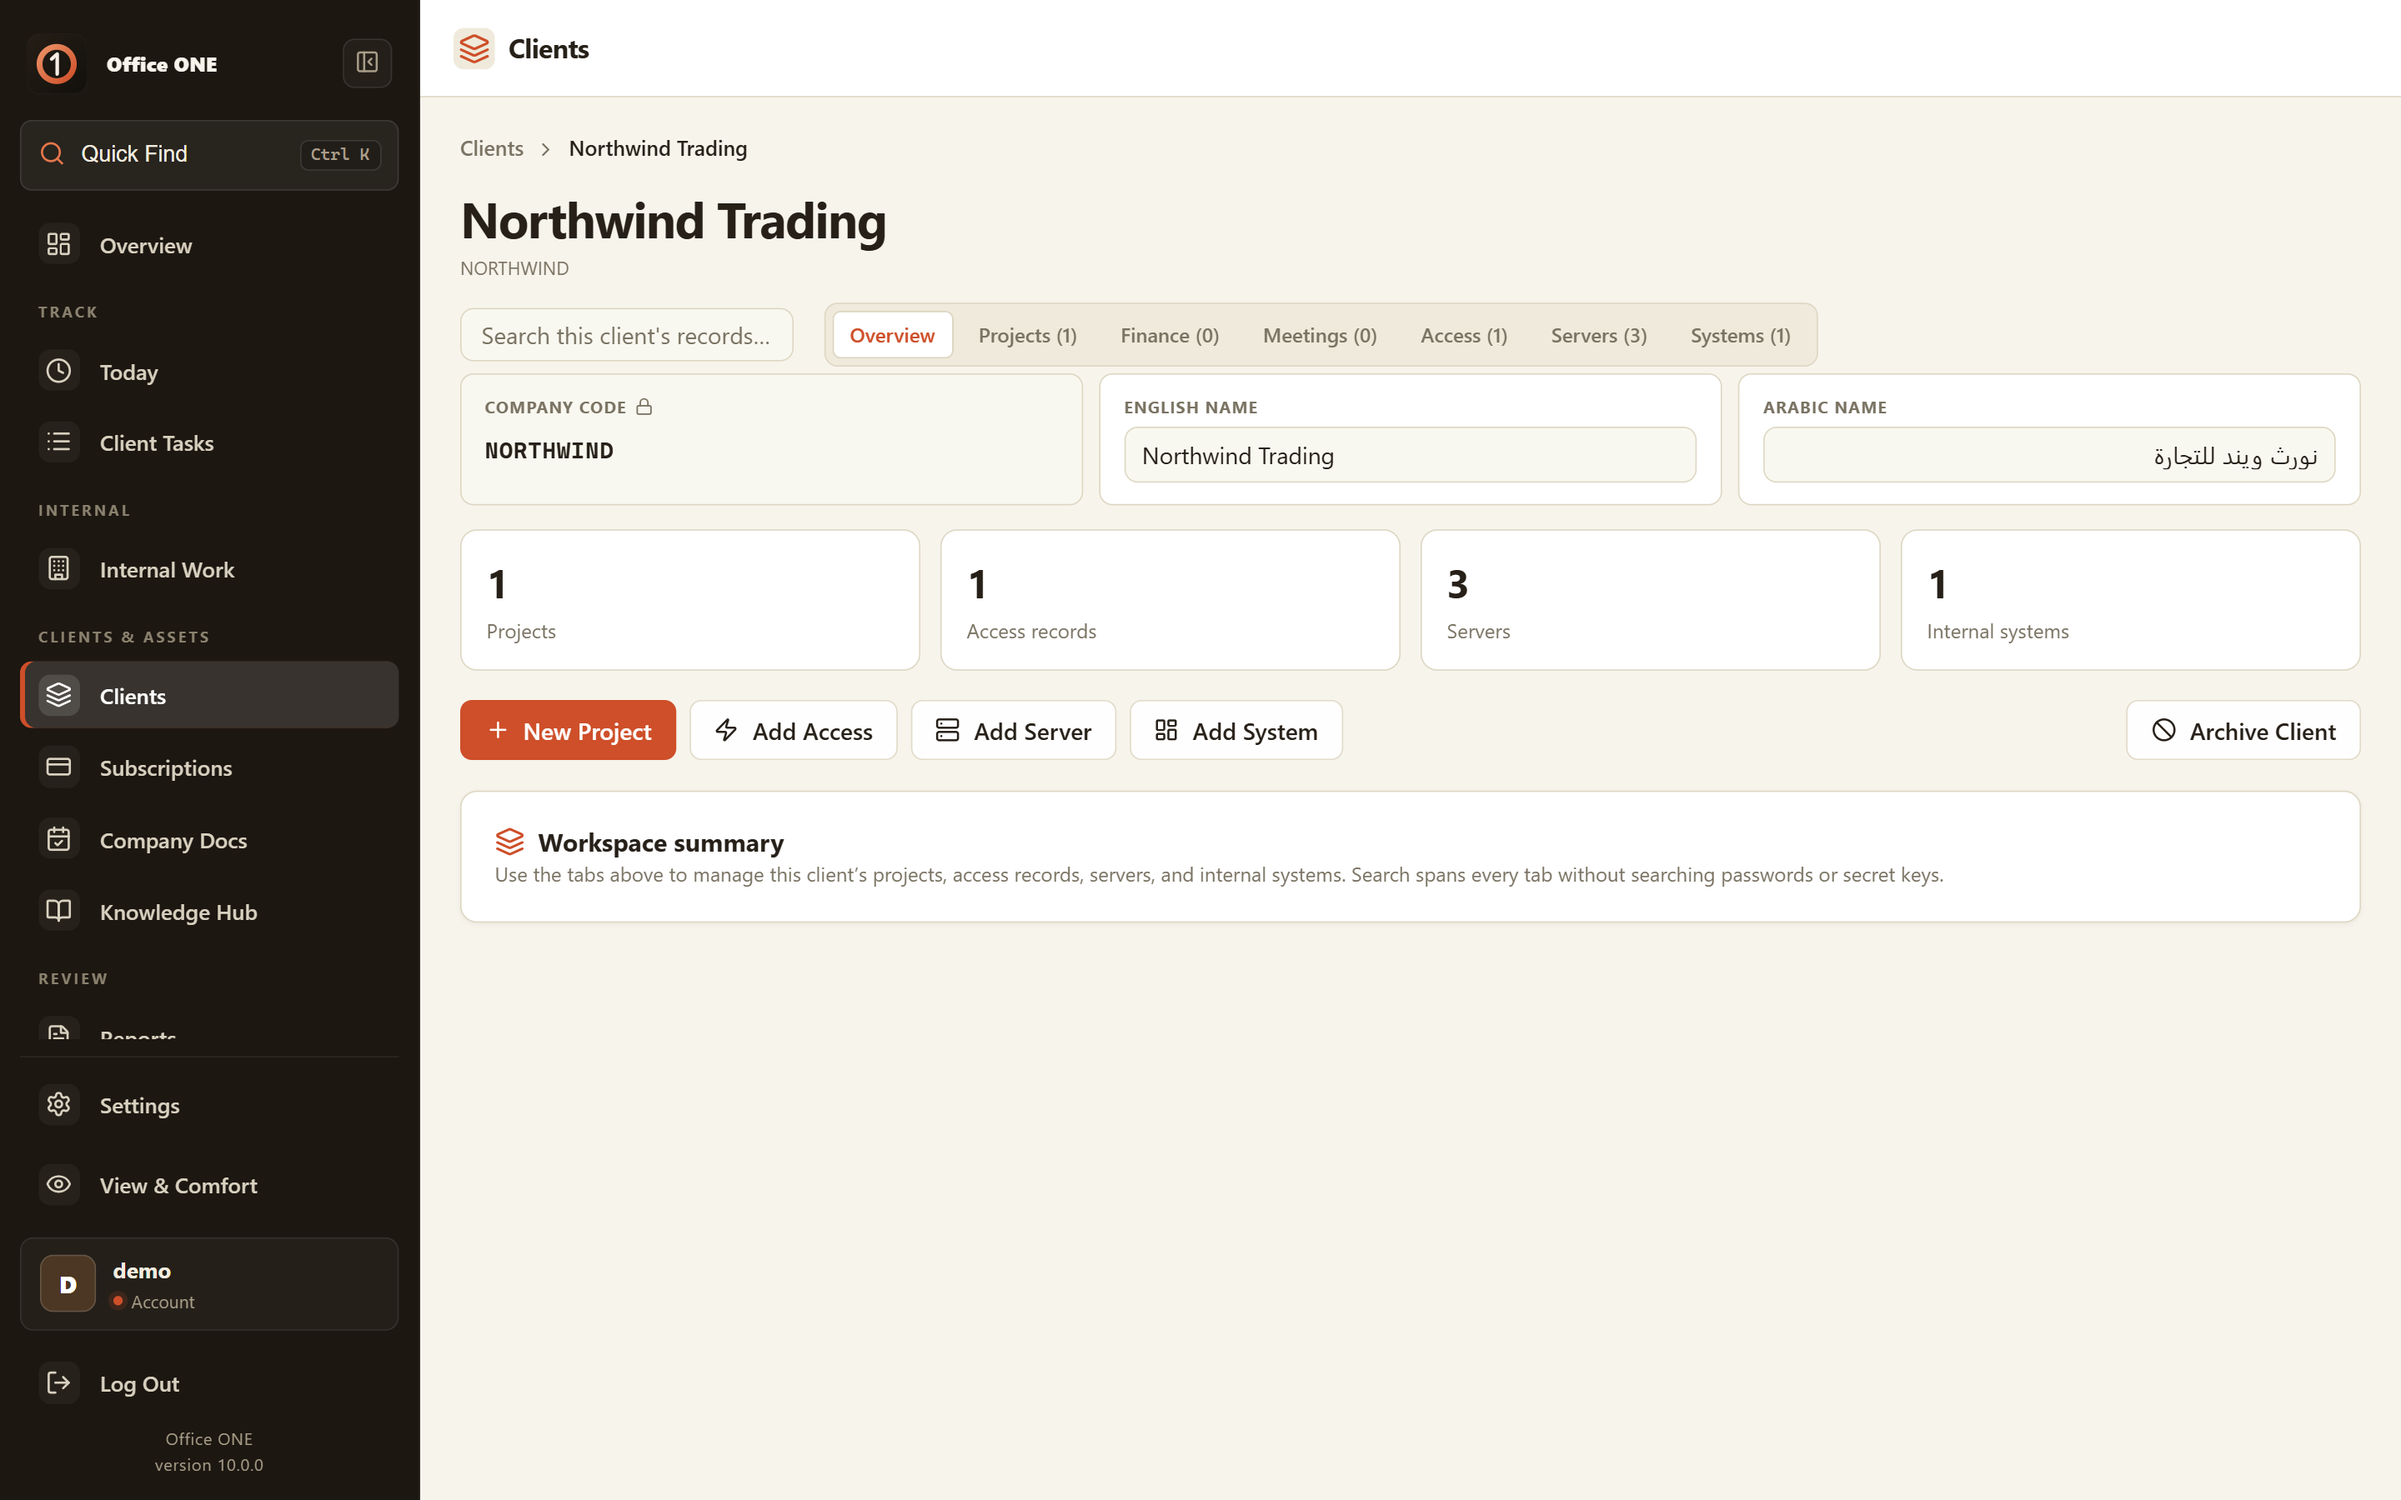
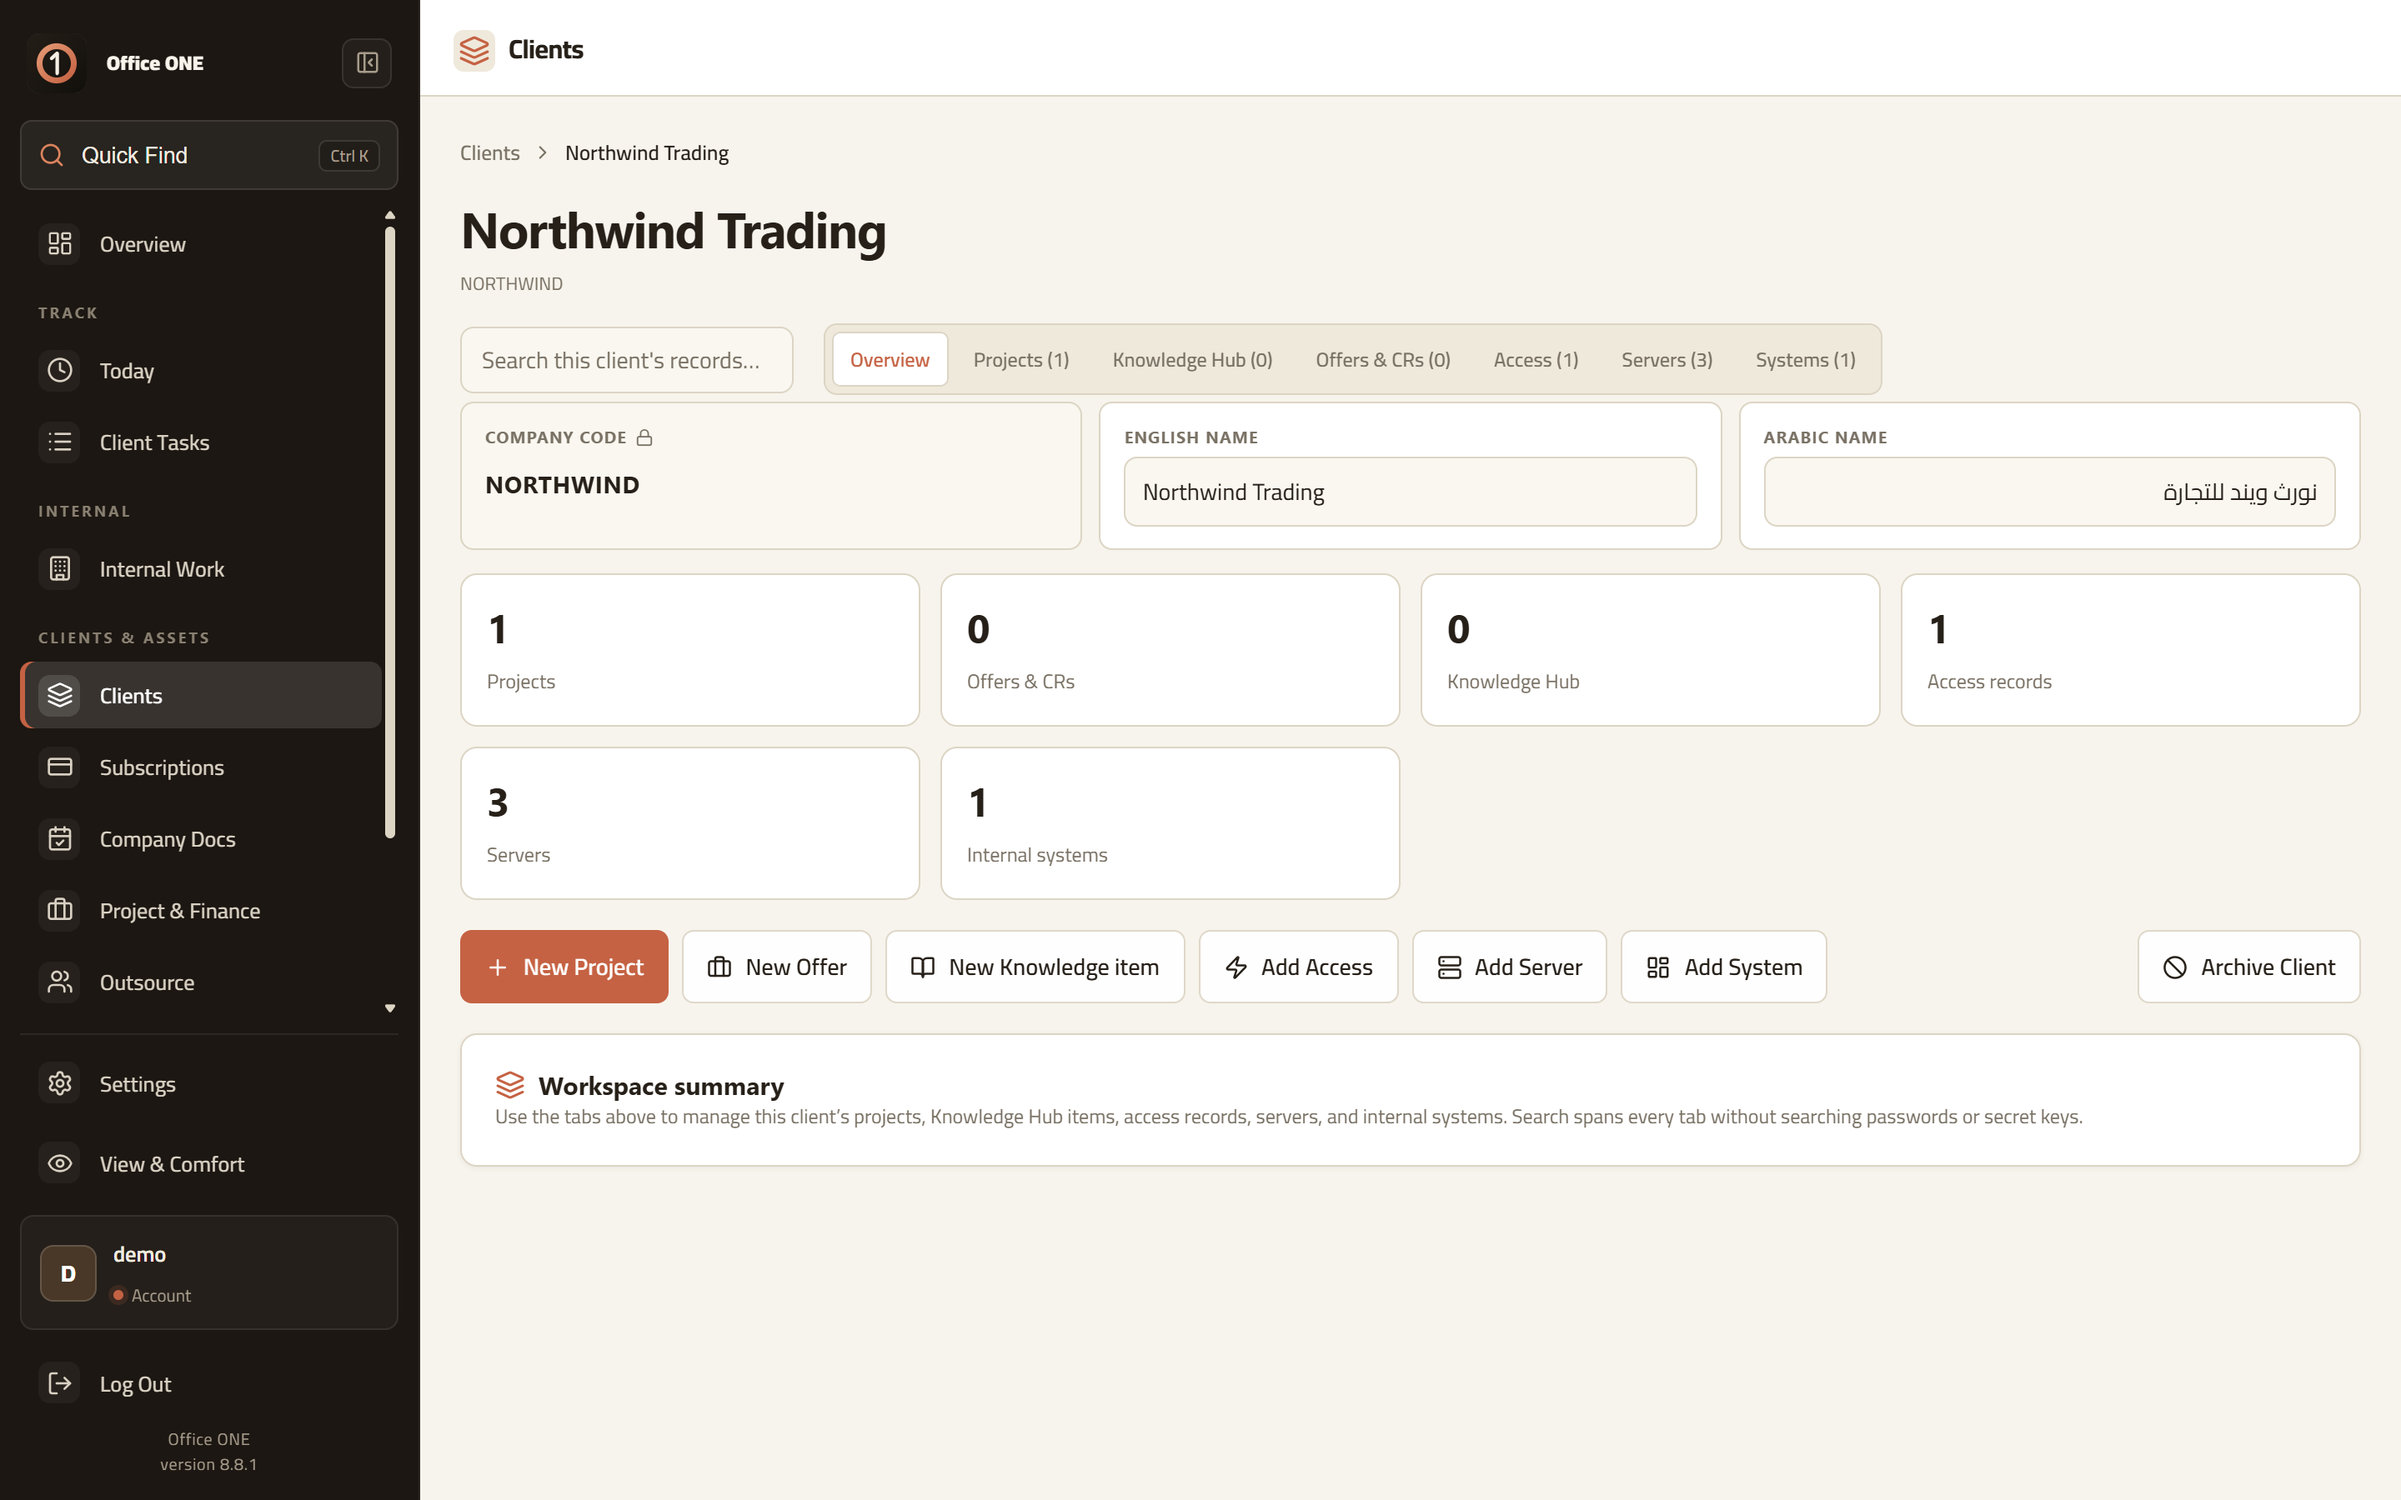
docs: refresh screenshots for 8.8.1
The old set showed version 10.0.0 from before the re-versioning and
predated the Project & Finance and Outsource modules. Recaptured from a
throwaway account with the same fictional demo data.

diff --git a/README.md b/README.md
@@ -16,7 +16,7 @@ Everything runs on the device. There is no application server, no cloud sync, an
     <td width="50%"><a href="docs/screenshots/03-client-tasks.png"><img src="docs/screenshots/03-client-tasks.png" alt="The Client Tasks list with expanded work logs"></a><br><sub><b>Client Tasks</b> — every task with its dated work logs, filterable by company, system and project.</sub></td>
   </tr>
   <tr>
-    <td width="50%"><a href="docs/screenshots/04-clients.png"><img src="docs/screenshots/04-clients.png" alt="A client detail page with its record tabs"></a><br><sub><b>Clients</b> — a client's projects, access records, servers, and internal systems. The company code is permanent and read-only.</sub></td>
+    <td width="50%"><a href="docs/screenshots/04-clients.png"><img src="docs/screenshots/04-clients.png" alt="A client detail page with its record tabs"></a><br><sub><b>Clients</b> — a client's projects, offers and CRs, knowledge items, access records, servers, and internal systems. The company code is permanent and read-only.</sub></td>
     <td width="50%"><a href="docs/screenshots/05-knowledge-hub.png"><img src="docs/screenshots/05-knowledge-hub.png" alt="The Knowledge Hub"></a><br><sub><b>Knowledge Hub</b> — versioned documents found by client and system, with plain-text notes.</sub></td>
   </tr>
 </table>
